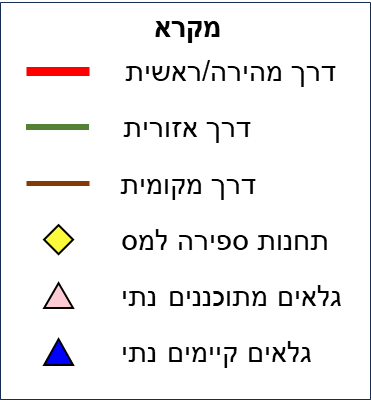
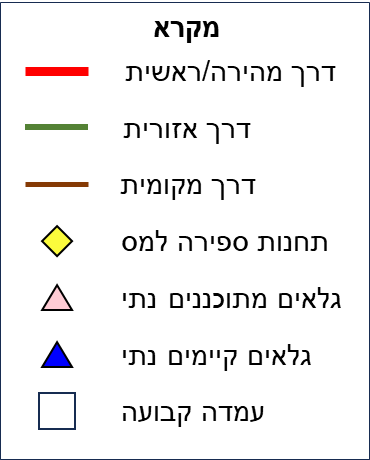
ADD KVUOT

diff --git a/ll_rdsscript3.js b/ll_rdsscript3.js
@@ -263,7 +263,7 @@ const lyr6 = {
 	style: nati1,
 	popup: function(feature, layer) {
 		if (feature.properties) {
-			popupcontent = 'טכנולוגיה: ' + feature.properties.TECHNOLOGY + '<br>'+'הוצב: ' + feature.properties.DATE ;
+			popupcontent = 'טכנולוגיה: ' + feature.properties.TECHNOLOGY + '<br>' + '<br>'+'דרך: ' + feature.properties.ROUT+' הוצב: ' + feature.properties.DATE ;
 			layer.bindPopup(popupcontent);
 			}  
 		}
@@ -289,7 +289,7 @@ const lyr7 = {
 	style: nati2,
 	popup: function(feature, layer) {
 		if (feature.properties) {
-			popupcontent = 'טכנולוגיה: ' + feature.properties.TECHNOLOGY + '<br>'+'הוצב: ' + feature.properties.DATE ;
+			popupcontent = 'טכנולוגיה: ' + feature.properties.TECHNOLOGY + '<br>'+'דרך: ' + feature.properties.ROUT  ;
 			layer.bindPopup(popupcontent);
 			}  
 		}
@@ -298,20 +298,20 @@ const lyr7 = {
 
 var nati3 = {
 	pane: 'front',
+	color: "black", // "#cccccc",
+    weight: 1,
+	opacity: 1,
 	fillColor: "blue",
 	fillOpacity: 0,
-	color: "black", // "#cccccc",
 	shape: "square",
-	opacity: 1,
-    weight: 0.5,
 	radius: 8
 	}
 
 const lyr8 = { 
-	name: "גלאים מתוכננים נתי",
+	name: "גלאים - כמדות קבועות",
 	url: "https://raw.githubusercontent.com/MOTRoundTables/NationalCounts/main/data/Detectors_plan_Kvuot.geoJson",
 	//pane: 'front',
-	style: nati2,
+	style: nati3,
 	popup: function(feature, layer) {
 		if (feature.properties) {
 			popupcontent = 'טכנולוגיה: ' + feature.properties.TECHNOLOGY + '<br>'+'הוצב: ' + feature.properties.DATE ;
@@ -389,6 +389,7 @@ var slyr4 = addplyr(map, lyr4, overlayMaps) ;
 var slyr5 = addplyr1(map, lyr5, overlayMaps) ;
 var slyr6 = addplyr1(map, lyr6, overlayMaps) ;
 var slyr7 = addplyr1(map, lyr7, overlayMaps) ;
+var slyr8 = addplyr1(map, lyr8, overlayMaps) ;
 
 
 // close local
@@ -398,6 +399,8 @@ var o1 = overlayMaps[lyr4.name]
 o1.remove();
 var o1 = overlayMaps[lyr7.name]
 o1.remove();
+//var o1 = overlayMaps[lyr8.name]
+//o1.remove();
 
 
 map.on('zoomend', function () {

diff --git a/SalHasfirot.html b/SalHasfirot.html
@@ -131,7 +131,7 @@
 <img src="legend.png" alt="legend" class="legend" id="legend"  style="width: 170px; height:auto; ">
 </div>
 
-<div class="dropdown" id="views" style="position:absolute; right:30px; top:225px;">
+<div class="dropdown" id="views" style="position:absolute; right:30px; top:245px;">
 שנה חלון
 <select id="windows" onchange="changeview(this)">
   <option value="1">צפון</option>
@@ -139,7 +139,7 @@
   <option value="3">דרום</option>
 </select>
 <br><p>
-<input type="checkbox" id="labels" name="labels" value="1" checked  onclick="tooglelbl()" > הצג מספר
+<input type="checkbox" id="labels" name="labels" value="1" checked  onclick="tooglelbl()" > הצג מספר קטע
 
 <!-- <p id="Zoom">zm</p> -->
 </div>
